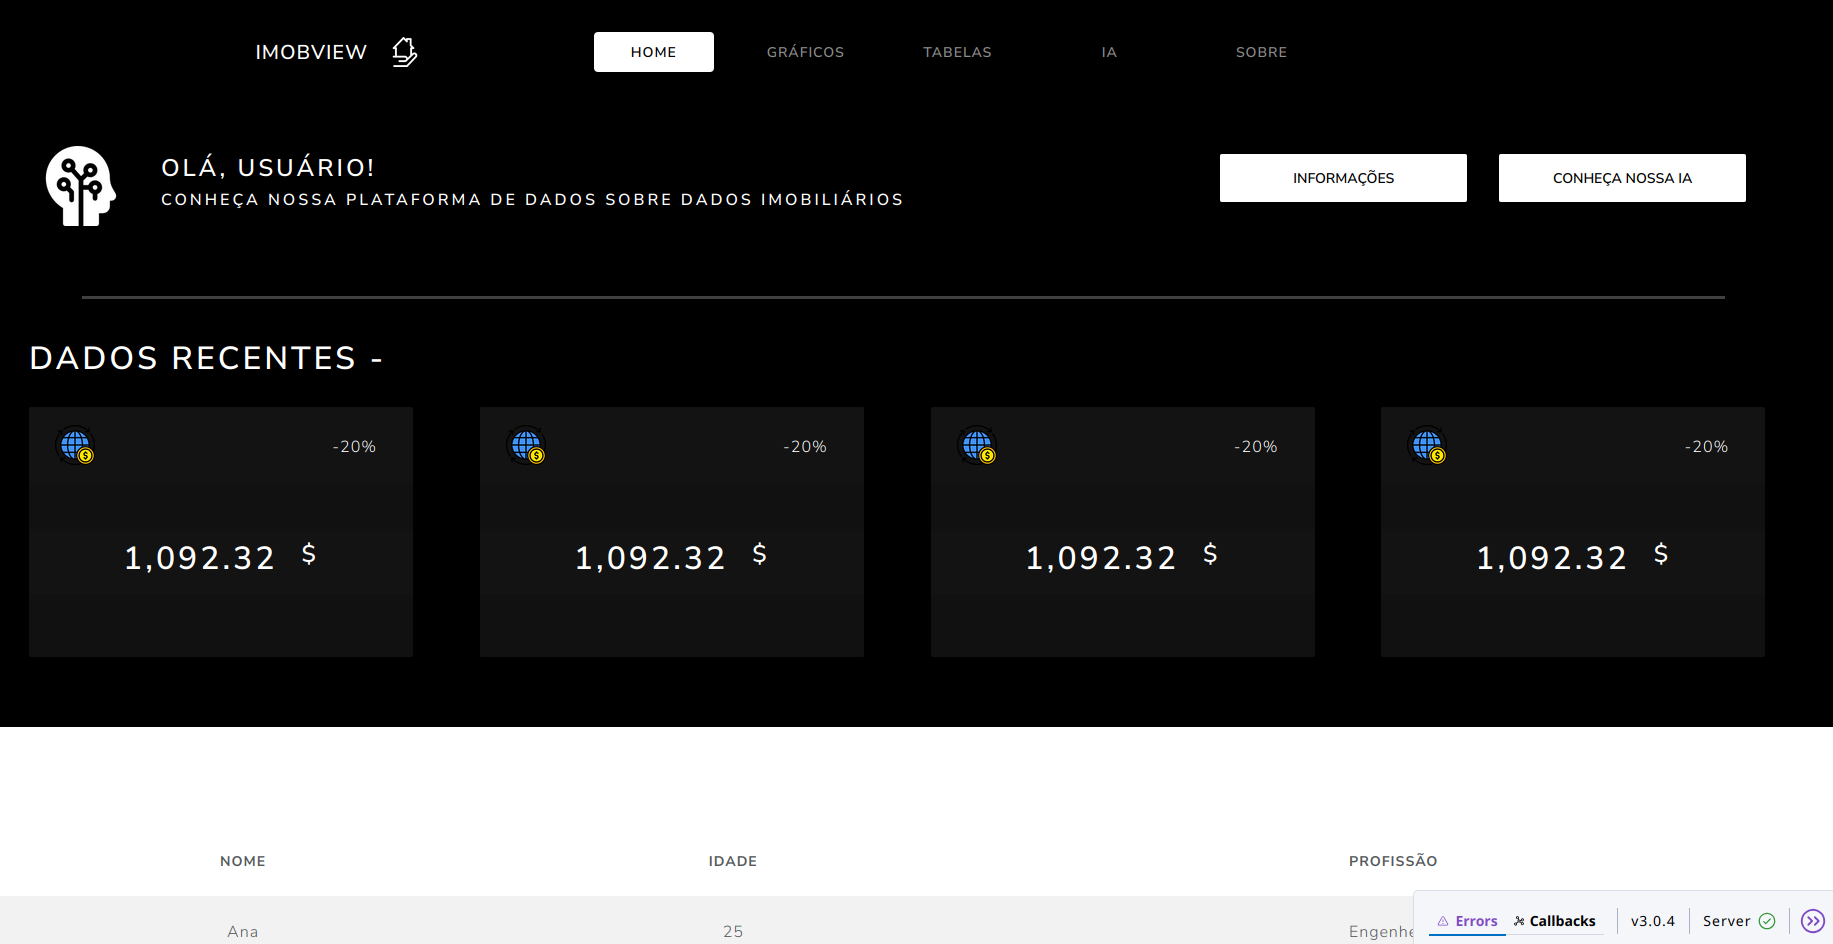
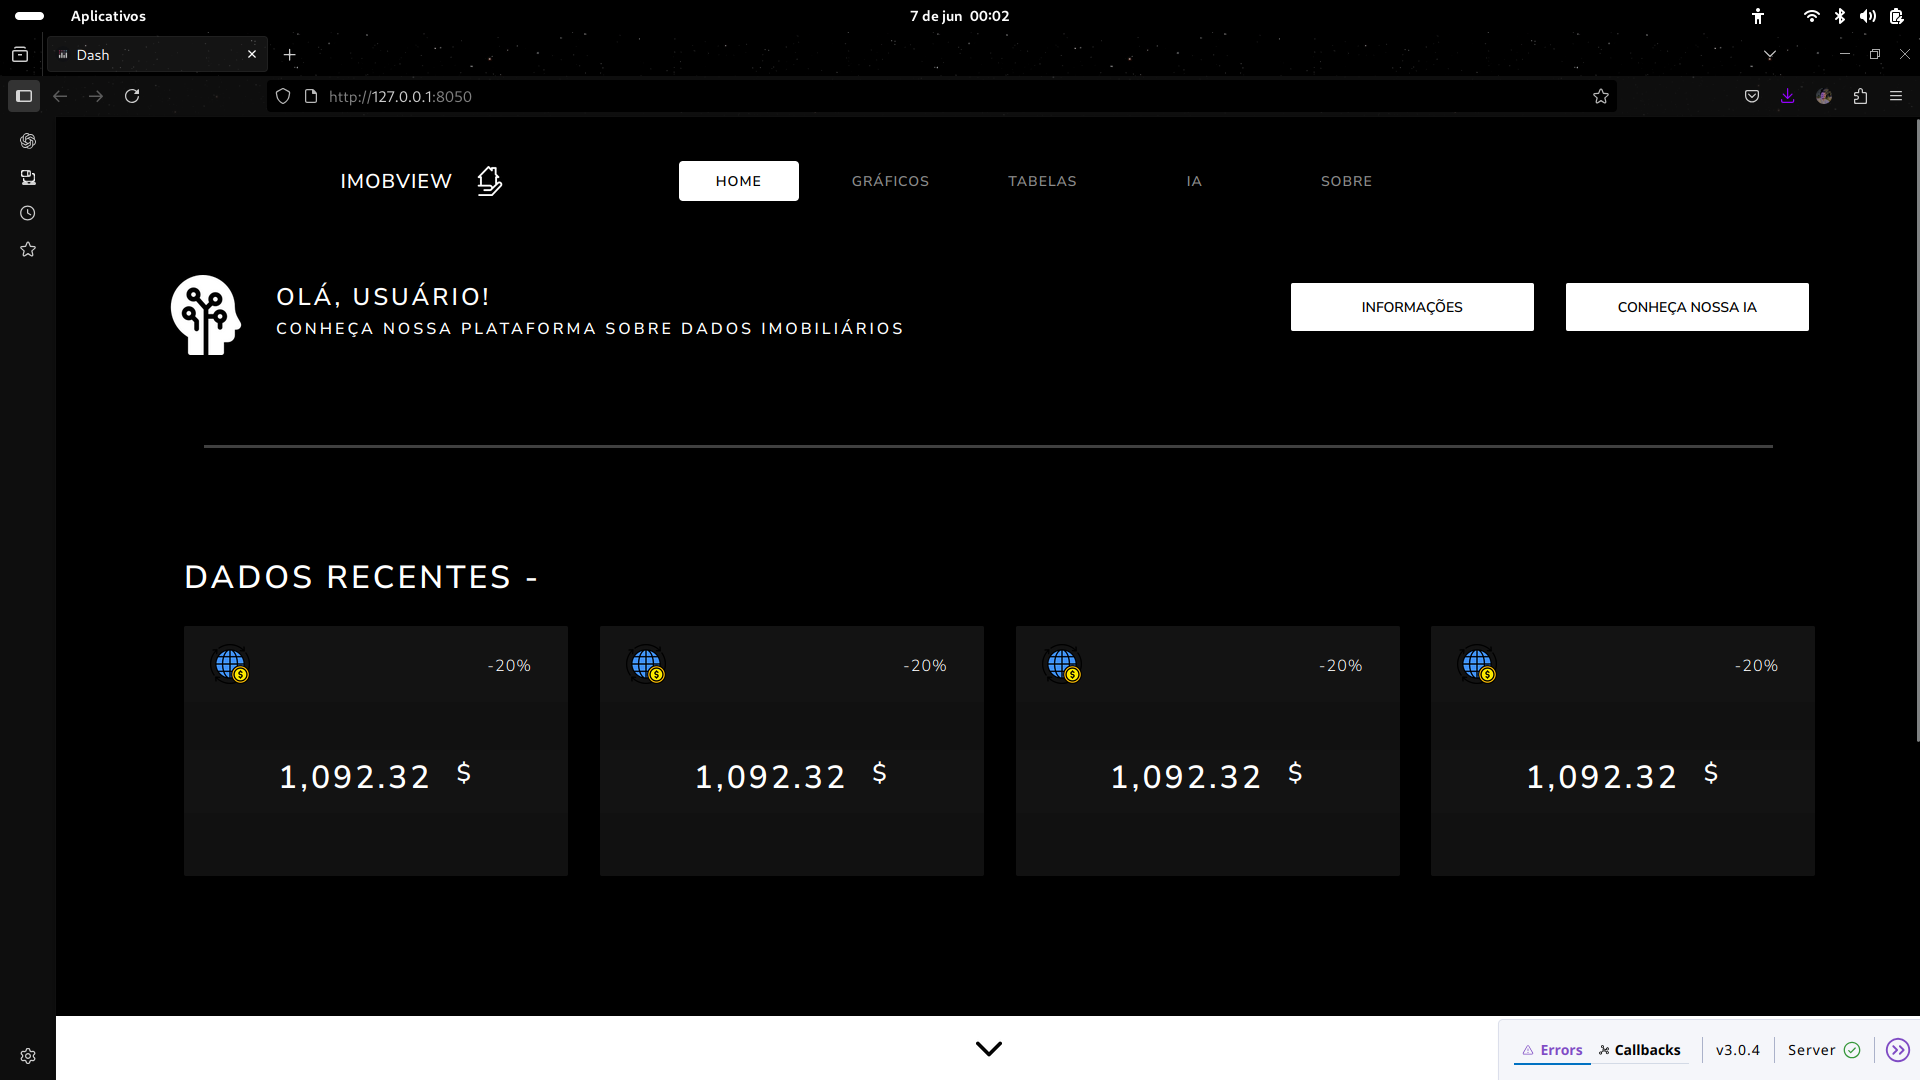
feat(page): new page

diff --git a/src/app/layout.py b/src/app/layout.py
@@ -5,7 +5,7 @@ from components.header import header
 from dash import Input, Output, State, dcc, html
 # import pages
 from home.page import home
-
+from tabelas.page import tabela
 # import from folders
 from app import app
 
@@ -16,8 +16,9 @@ app.layout = dbc.Container(children=[
       header,
    ]),
    dbc.Row([
+         html.Img(src='assets/img/sinal-de-seta-para-baixo-para-navegar.png', style={'width': '50px','margin-top': '20px'}),
          dbc.Container(id="page-content", fluid=True, )
-   ])
+   ], style={'display': 'flex', 'justify-content': 'center'})
 ], fluid=True)
 
 
@@ -27,6 +28,8 @@ app.layout = dbc.Container(children=[
 def render_page_content(pathname):
    if pathname == '/home' or pathname == '/':
       return home
+   elif pathname == '/tabelas':
+      return tabela
    return dbc.Container([
          html.H1("404: Not found", className="text-danger"),
          html.Hr(),
@@ -34,10 +37,8 @@ def render_page_content(pathname):
          html.P("Use a NavBar para retornar ao sistema de maneira correta.")
       ])
 
-
-
 if __name__ == '__main__':
-   app.run(host='0.0.0.0', port='8051')
+   app.run(debug=True)
 
 
 #

diff --git a/src/app/tabelas/page.py b/src/app/tabelas/page.py
@@ -1,0 +1,25 @@
+
+
+import dash
+import dash_bootstrap_components as dbc
+from dash import Input, Output, State, dcc, html
+
+import pandas as pd
+
+from components import nav
+
+from app import app
+
+# Dados fictícios para a tabela
+df = pd.DataFrame({
+   "Nome": ["Ana", "Bruno", "Carlos"],
+   "Idade": [25, 30, 22],
+   "Profissão": ["Engenheira", "Designer", "Desenvolvedor"]
+})
+
+# Criando as linhas da tabela
+tabela = dbc.Table.from_dataframe(df, striped=True, bordered=True, hover=True)
+
+tabela = dbc.Container(children=[
+   tabela
+], fluid=True, style={'display': 'flex', 'justify-content': 'center', 'align-items': 'center', 'text-align': 'center','height': '500px' ,'with': '100vh'})

diff --git a/src/app/home/page.py b/src/app/home/page.py
@@ -10,16 +10,7 @@ from components import nav
 
 from app import app
 
-# Dados fictícios para a tabela
-df = pd.DataFrame({
-   "Nome": ["Ana", "Bruno", "Carlos"],
-   "Idade": [25, 30, 22],
-   "Profissão": ["Engenheira", "Designer", "Desenvolvedor"]
-})
-
-# Criando as linhas da tabela
-tabela = dbc.Table.from_dataframe(df, striped=True, bordered=True, hover=True)
 
 home = dbc.Container(children=[
-   tabela
+   html.H1("Aqui esta vazio")
 ], fluid=True, style={'display': 'flex', 'justify-content': 'center', 'align-items': 'center', 'text-align': 'center','height': '500px' ,'with': '100vh'})
